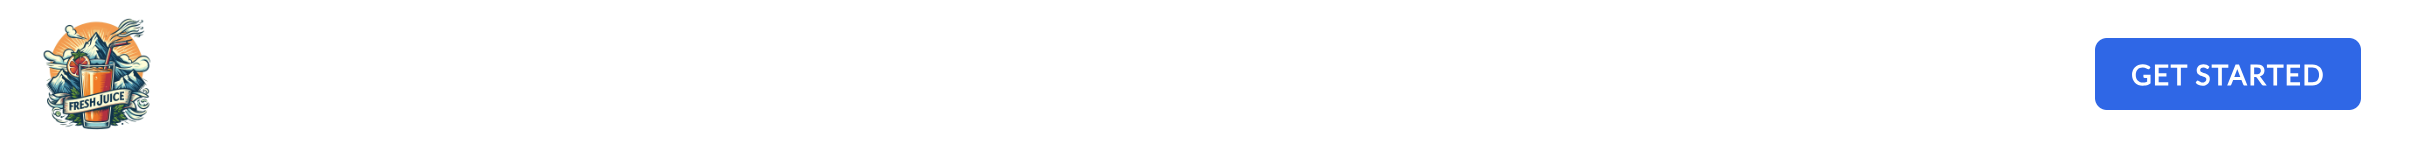
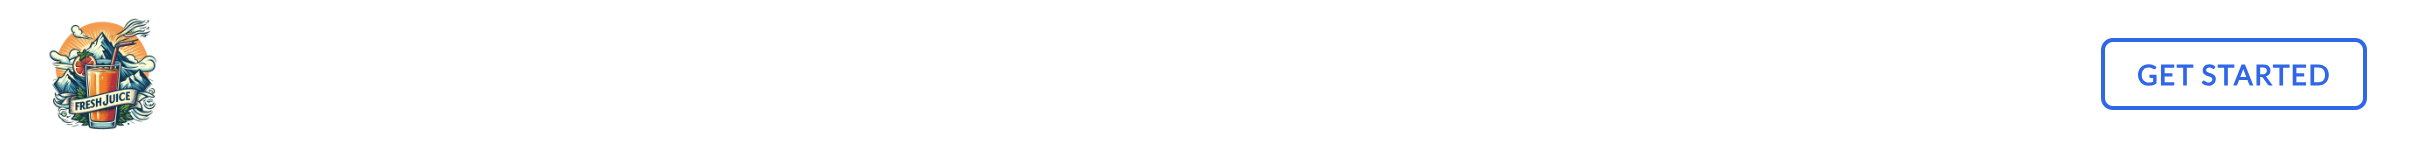
finish navigation bar docs

Changed region(s): [[0.8706, 0.24, 0.995, 0.7467], [0.0, 0.1333, 0.0622, 0.88]]

diff --git a/src/content/docs/modules/navigation-bar/index.md b/src/content/docs/modules/navigation-bar/index.md
@@ -14,14 +14,16 @@ You can check the demo page [here](https://143910617.hs-sites-eu1.com/module-div
 ### Settings
 - **Logo**: The logo of your choice for your website.
 - **Menu Layout**: A Choice between Classic and Modern (SuperB work in progress). Classic creates a two level dropdown level menu, while Modern creates a three level dropdown level menu. More details in the screenshots below.
-- **Full Width dropdown menus?**: A toggle to make the dropdown take the size of the container or the full width of the page. By default, it is toggled. Full width works only with Modern.
+- **Full Width dropdown menus?**: A toggle to make the dropdown take the size of the container or the full width of the page. By default, it is toggled. Full width works only with menu layout Modern.
 - **Menu**: Select the menu you want to display. You may choose to use the ones already available in the theme or create your own menu to use in this field.
 - **Call to Actions**: A list of Call to Actions (maximum call to actions being three), each call to action containing the following settings:
   - **Style**: Choice for your button style. You can choose between the following:
     - **Plain Link**: Just a simple link, like any other menu links.
     - **Ghost Button**: A button with an outline and no background, on hovering, the background gets filled with the border's color.
     - **Primary Button**: The primary button style for call to action; Button with background with mouse over effect on hover.
-  - **Title**:
+  - **Title**: Text for the CTA button or link.
+  - **Link**: The section for the url of the cta button / link. Link to specifies where exactly the link goes (External, file etc) and the URL field is where you insert your link. There is also an option for the link to open on a new window instead of the current.
+
 ## Navigation Bar - Simple
 
 <img src="./nav-bar-simple.png" alt="Screenshot of Navigation Bar Simple Module" />
@@ -29,5 +31,15 @@ You can check the demo page [here](https://143910617.hs-sites-eu1.com/module-div
 Our recommendation is to use this navigation bar for landing pages or form pages.
 
 ### Settings
-
+- **Logo**: The logo of your choice for your website.
+- **Menu Layout**: A Choice between Classic and Modern (SuperB work in progress). Classic creates a two level dropdown level menu, while Modern creates a three level dropdown level menu. More details in the screenshots below.
+- **Full Width dropdown menus?**: A toggle to make the dropdown take the size of the container or the full width of the page. By default, it is toggled. Full width works only with menu layout Modern.
+- **Menu**: Select the menu you want to display. You may choose to use the ones already available in the theme or create your own menu to use in this field.
+- **Call to Actions**: Single Call to Action, having the following customisations:
+  - **Style**: Choice for your button style. You can choose between the following:
+    - **Plain Link**: Just a simple link, like any other menu links.
+    - **Ghost Button**: A button with an outline and no background, on hovering, the background gets filled with the border's color.
+    - **Primary Button**: The primary button style for call to action; Button with background with mouse over effect on hover.
+  - **Title**: Text for the CTA button or link.
+  - **Link**: The section for the url of the cta button / link. Link to specifies where exactly the link goes (External, file etc) and the URL field is where you insert your link. There is also an option for the link to open on a new window instead of the current.
 
